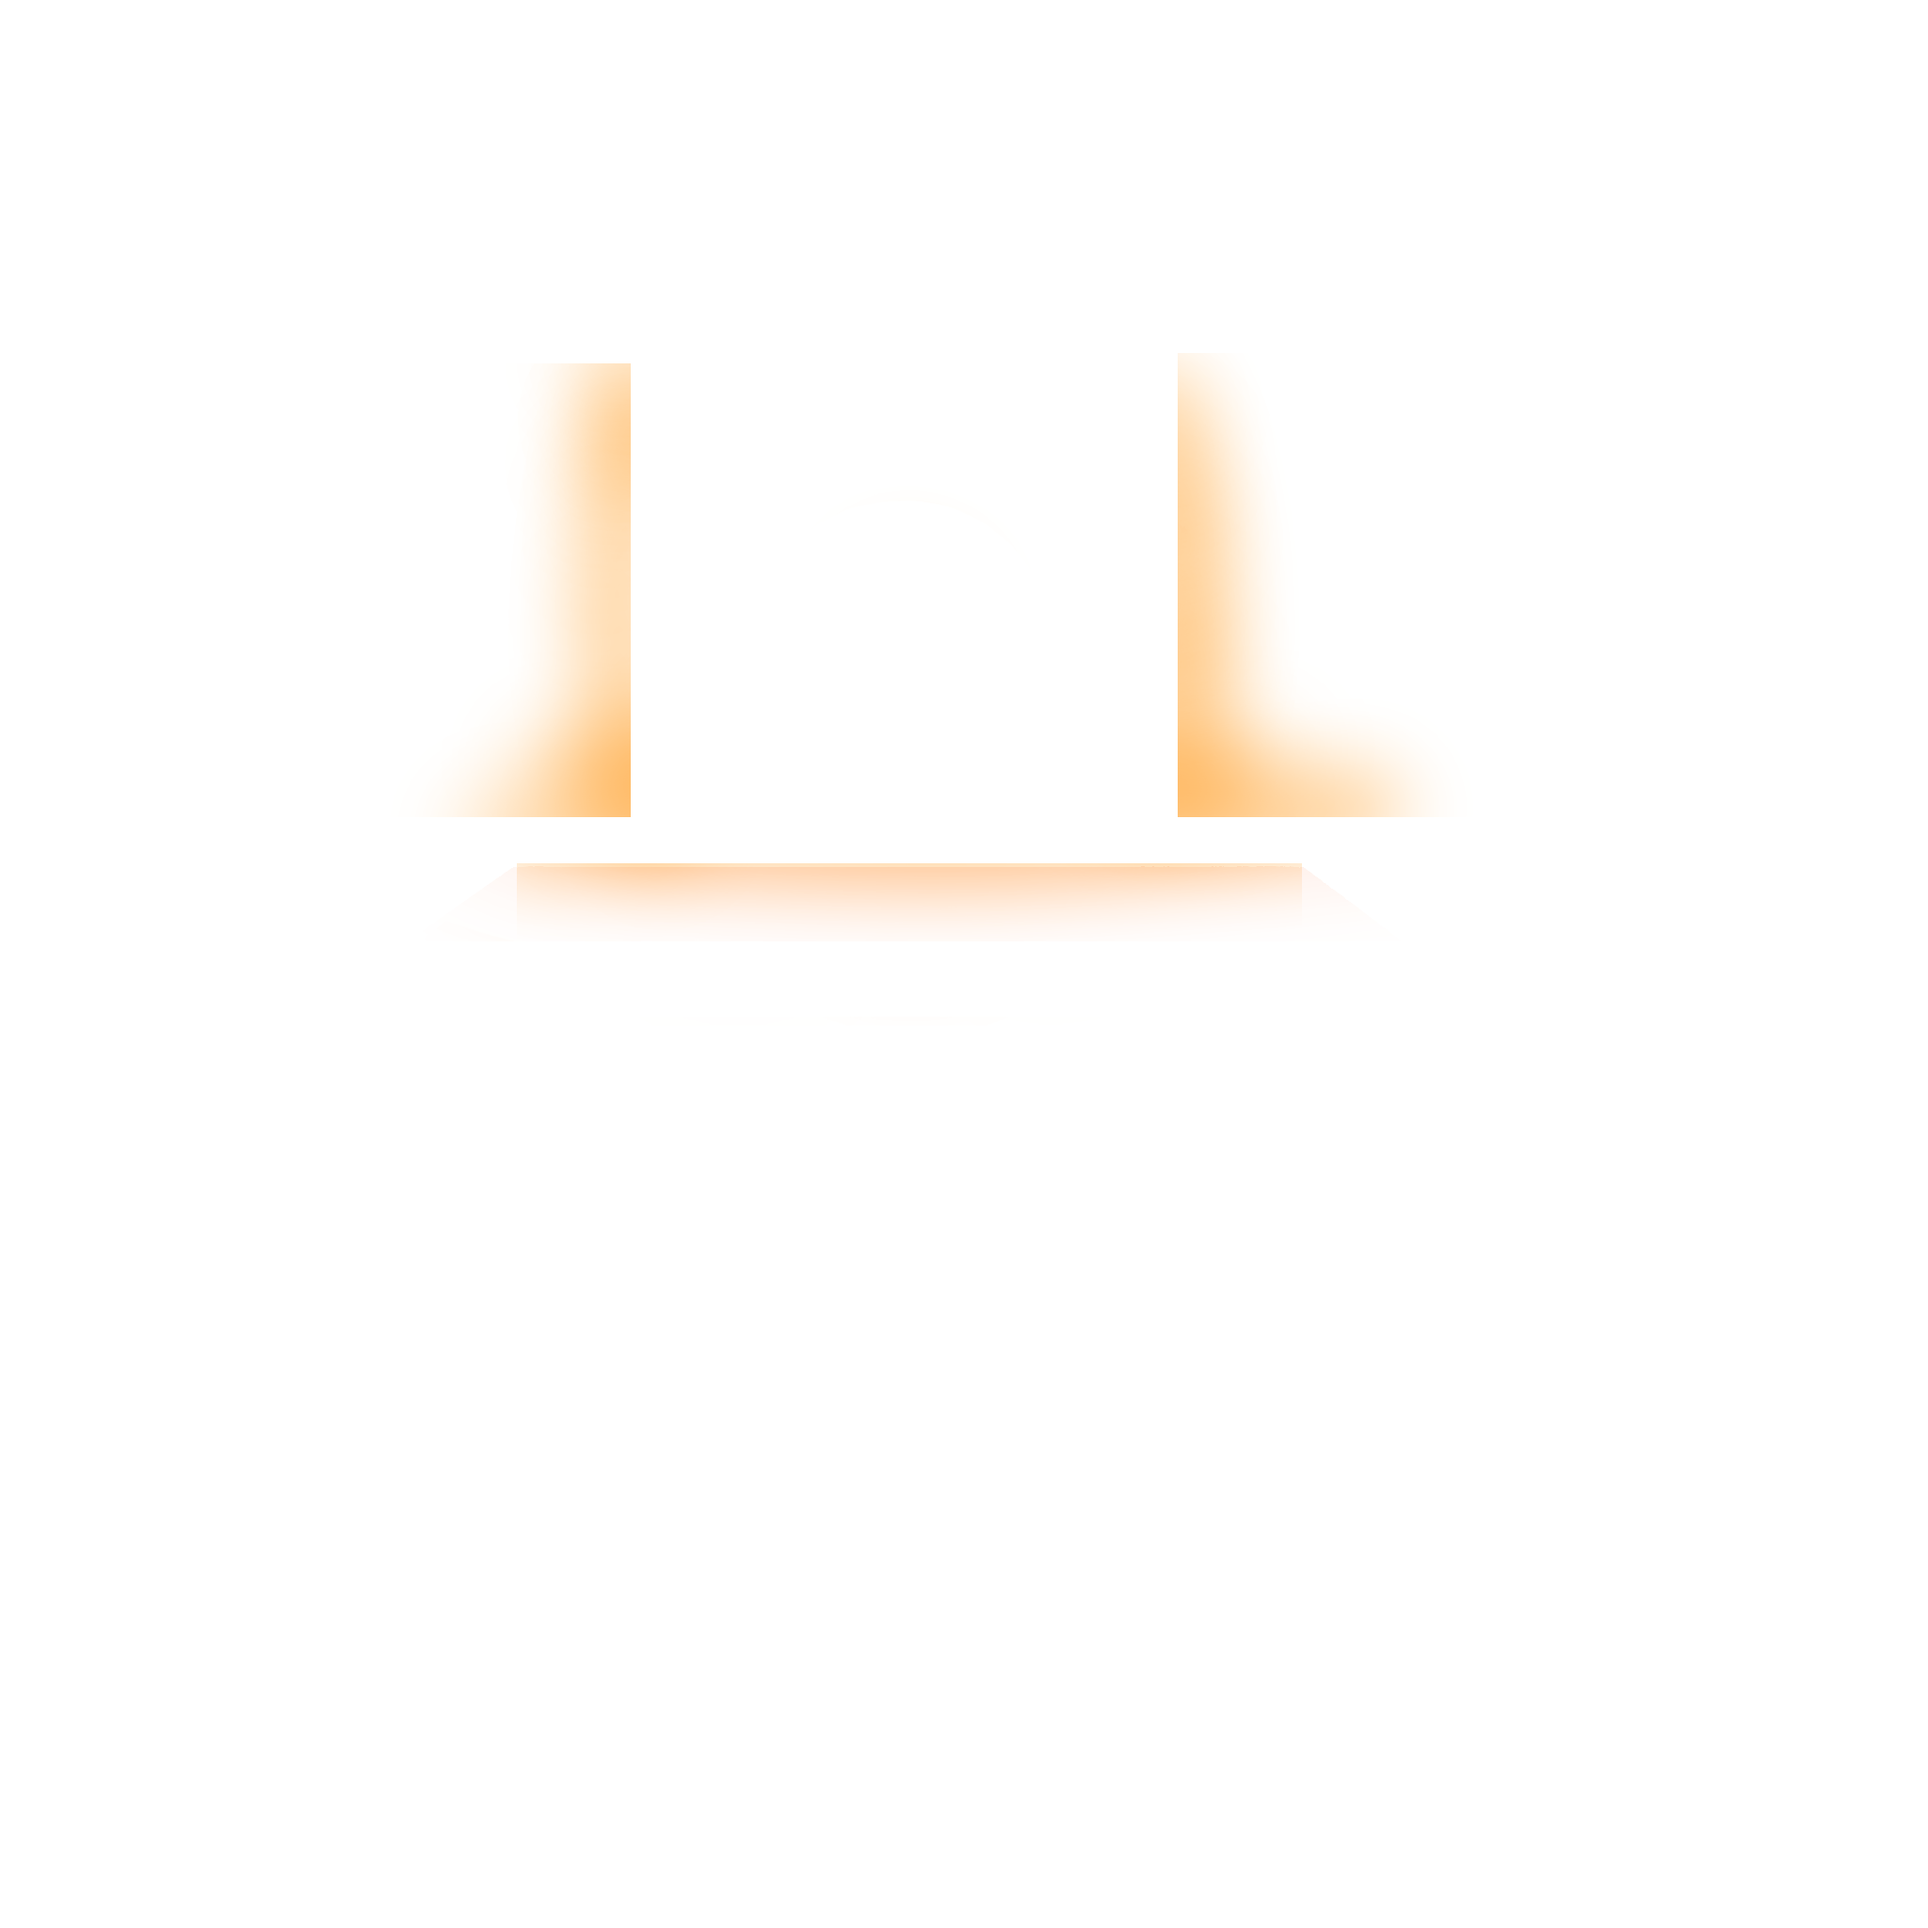
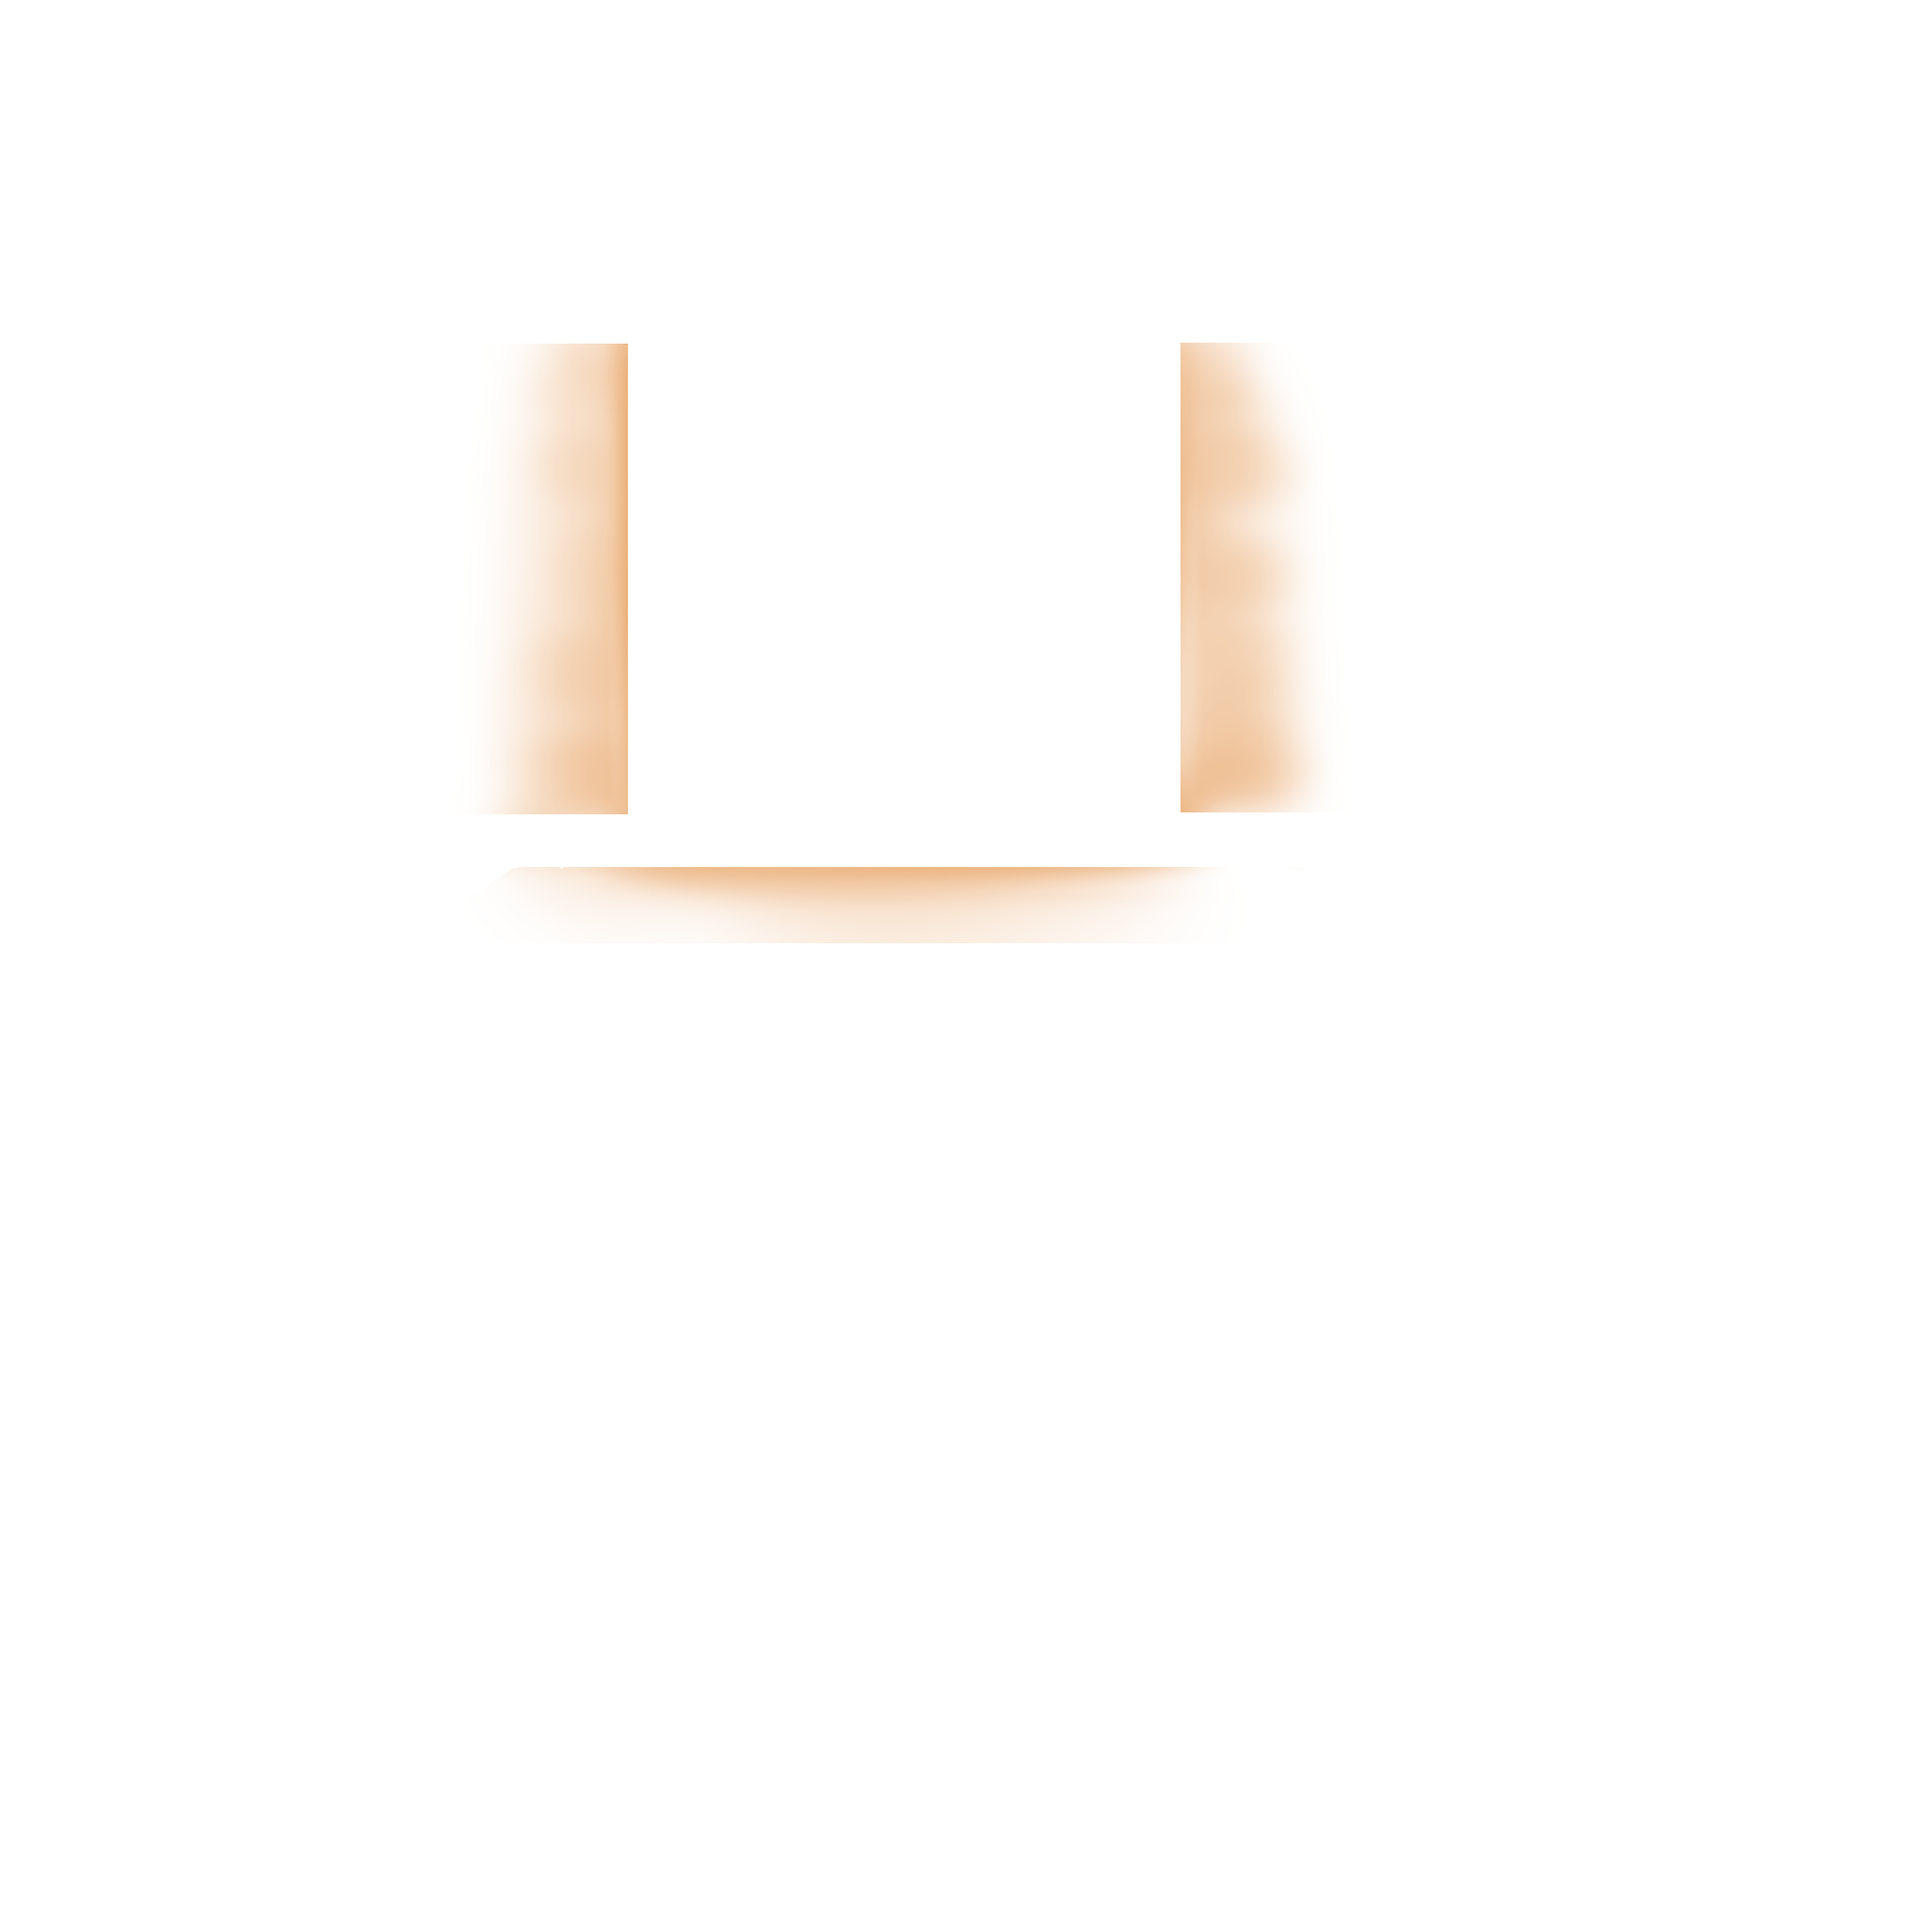
キャンドルエフェクトを清書に差し替え 左部屋で描画にバグ

Changed region(s): [[0.5938, 0.1562, 0.75, 0.4688], [0.25, 0.1562, 0.3438, 0.4688], [0.3438, 0.4375, 0.5625, 0.4688]]

diff --git a/秋制作 ProjectA ver_α/テンプレート/Src/Object/Item/Id/Candle.cpp b/秋制作 ProjectA ver_α/テンプレート/Src/Object/Item/Id/Candle.cpp
@@ -85,29 +85,29 @@ void Candle::Init() {
 
 		break;
 	case ObjID::CANDLE_EFFECT_RIGHT:
-		LoadTexture("Res/Game/Item/Candle_Right_Effect.png", TEXTURE_CATEGORY_GAME, GameCategoryTextureList::GameCandleRightEffectTex);
+		LoadTexture("Res/Game/Item/candle_effect_right.png", TEXTURE_CATEGORY_GAME, GameCategoryTextureList::GameCandleRightEffectTex);
 		m_pTex = GetTexture(TEXTURE_CATEGORY_GAME, GameCategoryTextureList::GameCandleRightEffectTex);
 
 		if (m_pTex == nullptr) {
 			return;
 		}
 
-		m_Pos = BIG_CANDLE_EFFECT_POS;
-		m_Size = CANDLE_EFFECT_SIZE;
-		m_Frame = CANDLE_EFFECT_FRAME;
+		m_Pos = { 0.0f, 0.0f };
+		m_Size = { 0.f, 0.f };
+		m_Frame = { 2048.f, 2048.f };
 
 		break;
 	case ObjID::CANDLE_EFFECT_LEFT:
-		LoadTexture("Res/Game/Item/Candle_Right_Effect.png", TEXTURE_CATEGORY_GAME, GameCategoryTextureList::GameCandleLeftEffectTex);
+		LoadTexture("Res/Game/Item/candle_effect_left.png", TEXTURE_CATEGORY_GAME, GameCategoryTextureList::GameCandleLeftEffectTex);
 		m_pTex = GetTexture(TEXTURE_CATEGORY_GAME, GameCategoryTextureList::GameCandleLeftEffectTex);
 
 		if (m_pTex == nullptr) {
 			return;
 		}
 
-		m_Pos = BIG_CANDLE_EFFECT_POS;
-		m_Size = CANDLE_EFFECT_SIZE;
-		m_Frame = CANDLE_EFFECT_FRAME;
+		m_Pos = { 0.0f, 0.0f };
+		m_Size = { 0.f, 0.f };
+		m_Frame = { 2048.f, 2048.f };
 
 		break;
 	}
